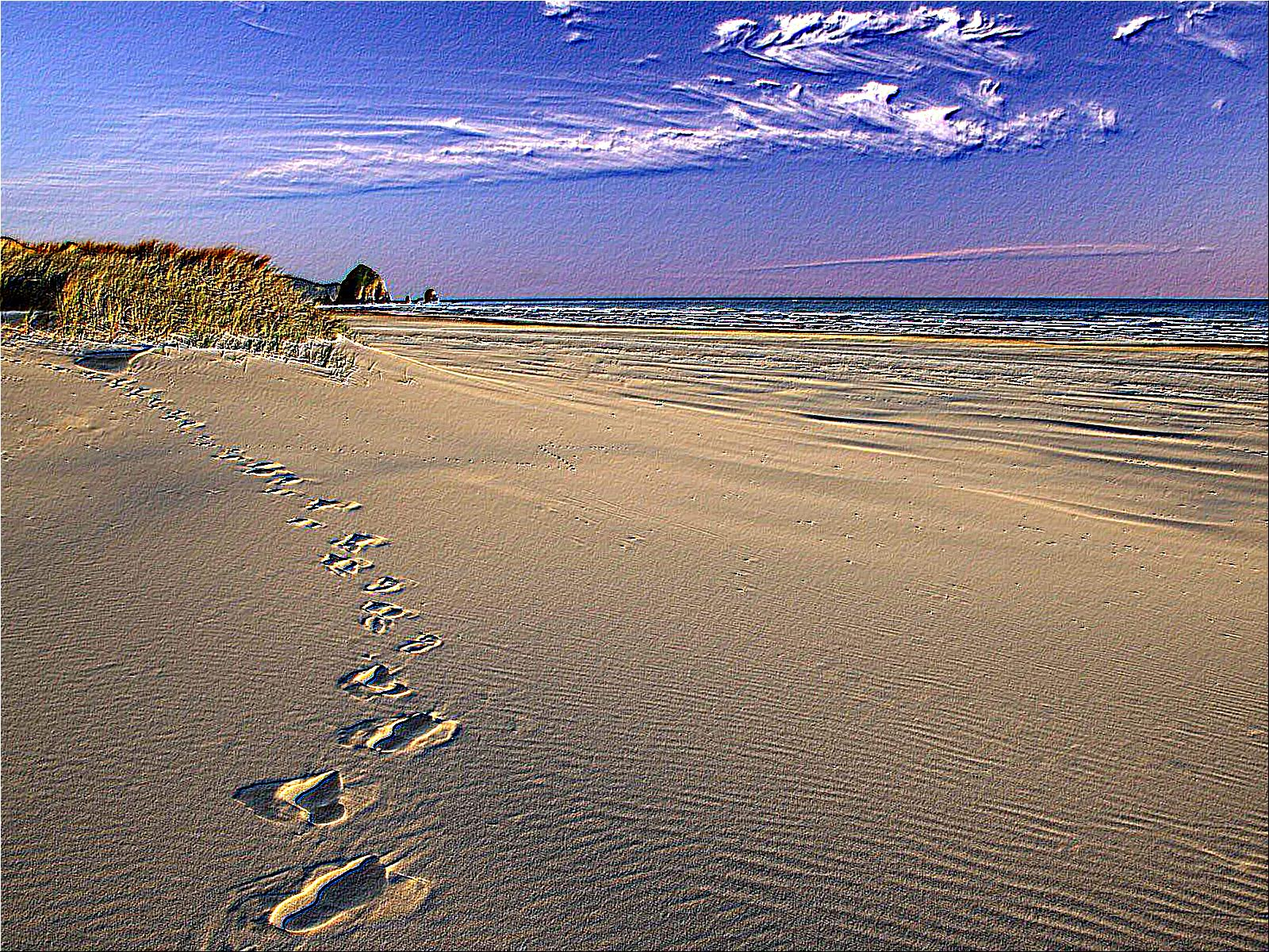
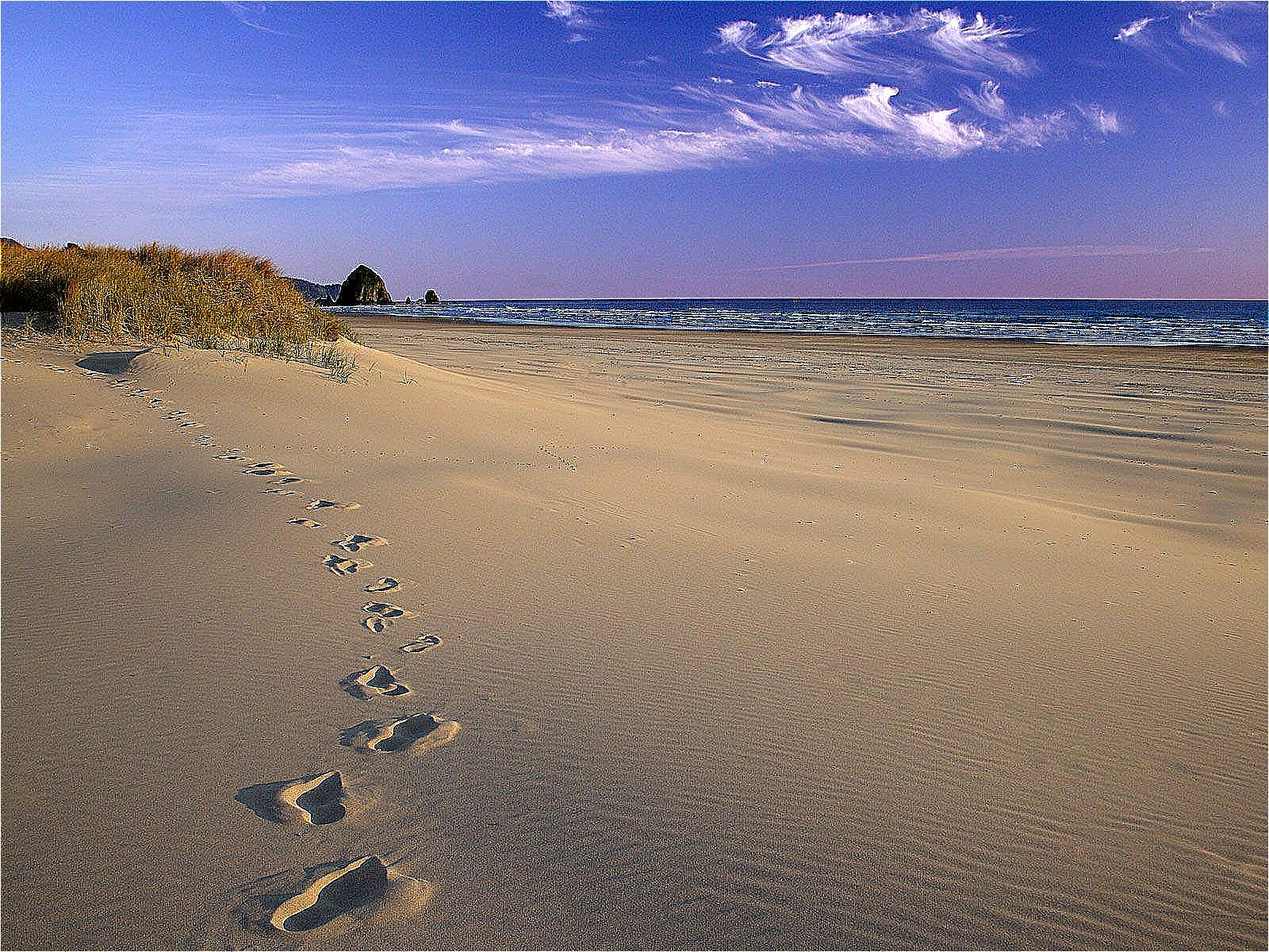
finish 5.1–5.4

diff --git a/Blatt4/ImageManipStub/ImageManipStub/src/Main.java b/Blatt4/ImageManipStub/ImageManipStub/src/Main.java
@@ -79,34 +79,71 @@ public class Main {
         // Create a Convolution instance with the loaded image
         Convolution convolutionProcessor = new Convolution(origImage.img);
 
-        // Define a 3x3 sharpening kernel
-        int[][] sharpenKernel = {
-                {  0, -1,  0 },
-                { -1,  5, -1 },
-                {  0, -1,  0 }
-        };
-
         int[][] blurKernel = {
                 { 1, 1, 1 },
                 { 1, 1, 1 },
                 { 1, 1, 1 }
         };
 
-        int[][] edgeKernel = {
+        // exercise 5.2
+        int[][] boostFilter = {
                 { -1, -1, -1 },
-                { -1,  8, -1 },
+                { -1,  9, -1 },
                 { -1, -1, -1 }
         };
 
+        int[][] gaussianBlur = {
+                { 1, 4, 7, 4, 1},
+                { 4, 16, 26, 16, 4},
+                { 7, 26, 41, 26, 7},
+                { 4, 16, 26, 16, 4},
+                { 1, 4, 7, 4, 1}
+        };
+
+        // exercise 5.3
+
+        int[][] horizontalEdgeFilter = {
+                { 1, 1, 1 },
+                { 0, 0, 0 },
+                { -1, -1, -1 }
+        };
+
+        int[][] tiltedEdgeFilter = {
+                { -1, -1, 0 },
+                { -1, 0, 1 },
+                { 0, 1, 1 }
+        };
+
+        // exercise 5.4
         int[][] embossKernel = {
+                { -7, -5, -3,  0,  3,  5,  7 },
+                { -5, -3, -2,  0,  2,  3,  5 },
+                { -3, -2, -1,  0,  1,  2,  3 },
+                {  0,  0,  0,  1,  0,  0,  0 },
+                {  3,  2,  1,  0, -1, -2, -3 },
+                {  5,  3,  2,  0, -2, -3, -5 },
+                {  7,  5,  3,  0, -3, -5, -7 }
+        };
+
+        int[][] smallEmbossKernel = {
                 { -5, -2,  0 },
                 { -1,  1,  1 },
                 {  0,  2,  5 }
         };
 
+        int[][] gaborKernel = {
+                { -1, -2, -1,  0,  1,  2,  1 },
+                { -2, -3, -2,  0,  2,  3,  2 },
+                { -1, -2, -1,  0,  1,  2,  1 },
+                {  0,  0,  0,  0,  0,  0,  0 },
+                {  1,  2,  1,  0, -1, -2, -1 },
+                {  2,  3,  2,  0, -2, -3, -2 },
+                {  1,  2,  1,  0, -1, -2, -1 }
+        };
+
 
         // Apply the convolution
-        BufferedImage transformedImage = convolutionProcessor.convolution(embossKernel);
+        BufferedImage transformedImage = convolutionProcessor.convolution(boostFilter);
 
         // Display the result
         showBufferedImage(transformedImage, "Transformed Image");
